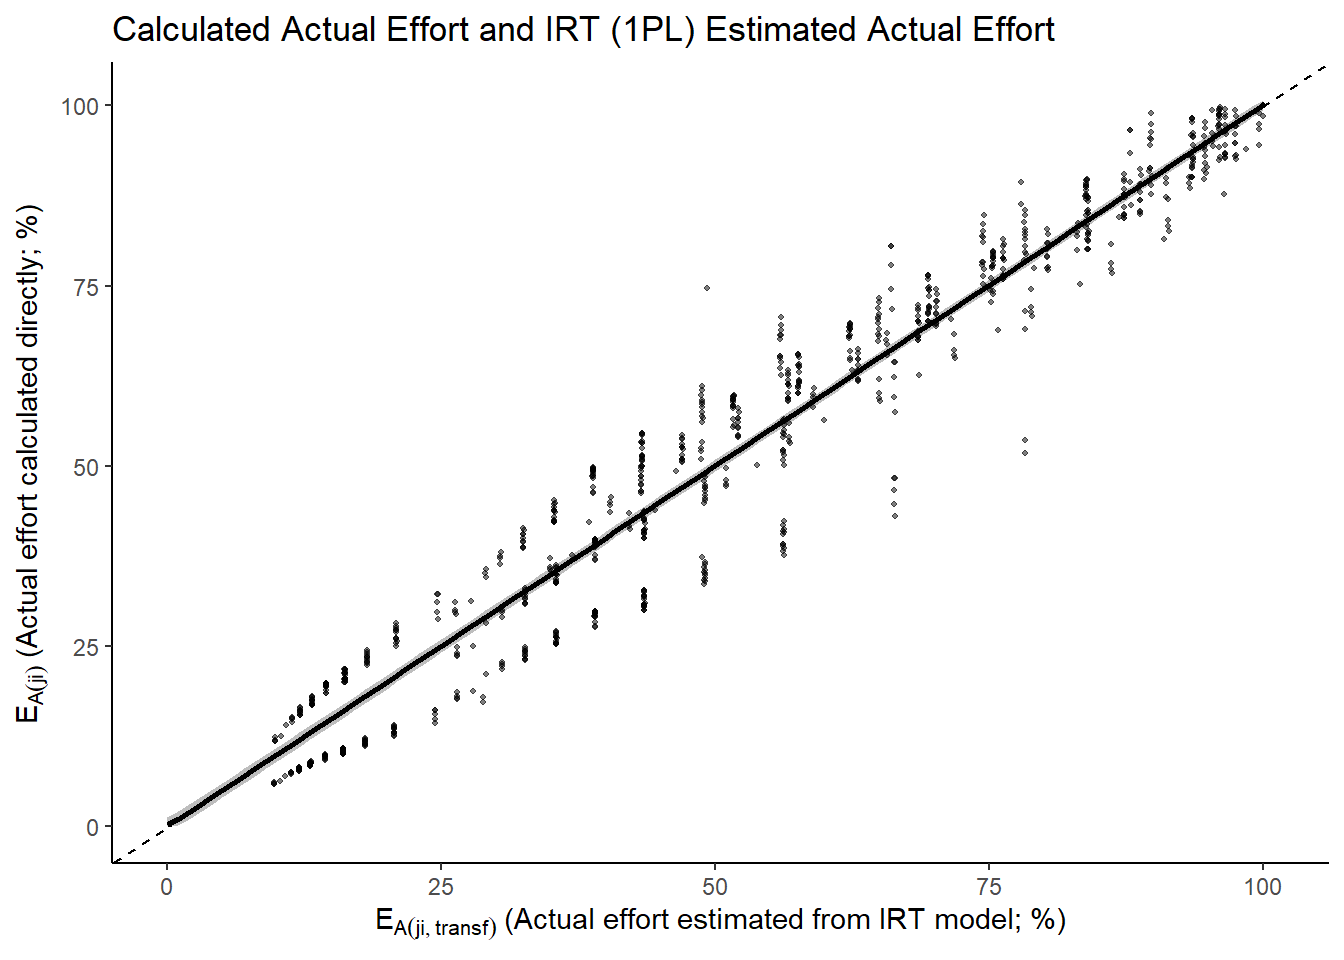
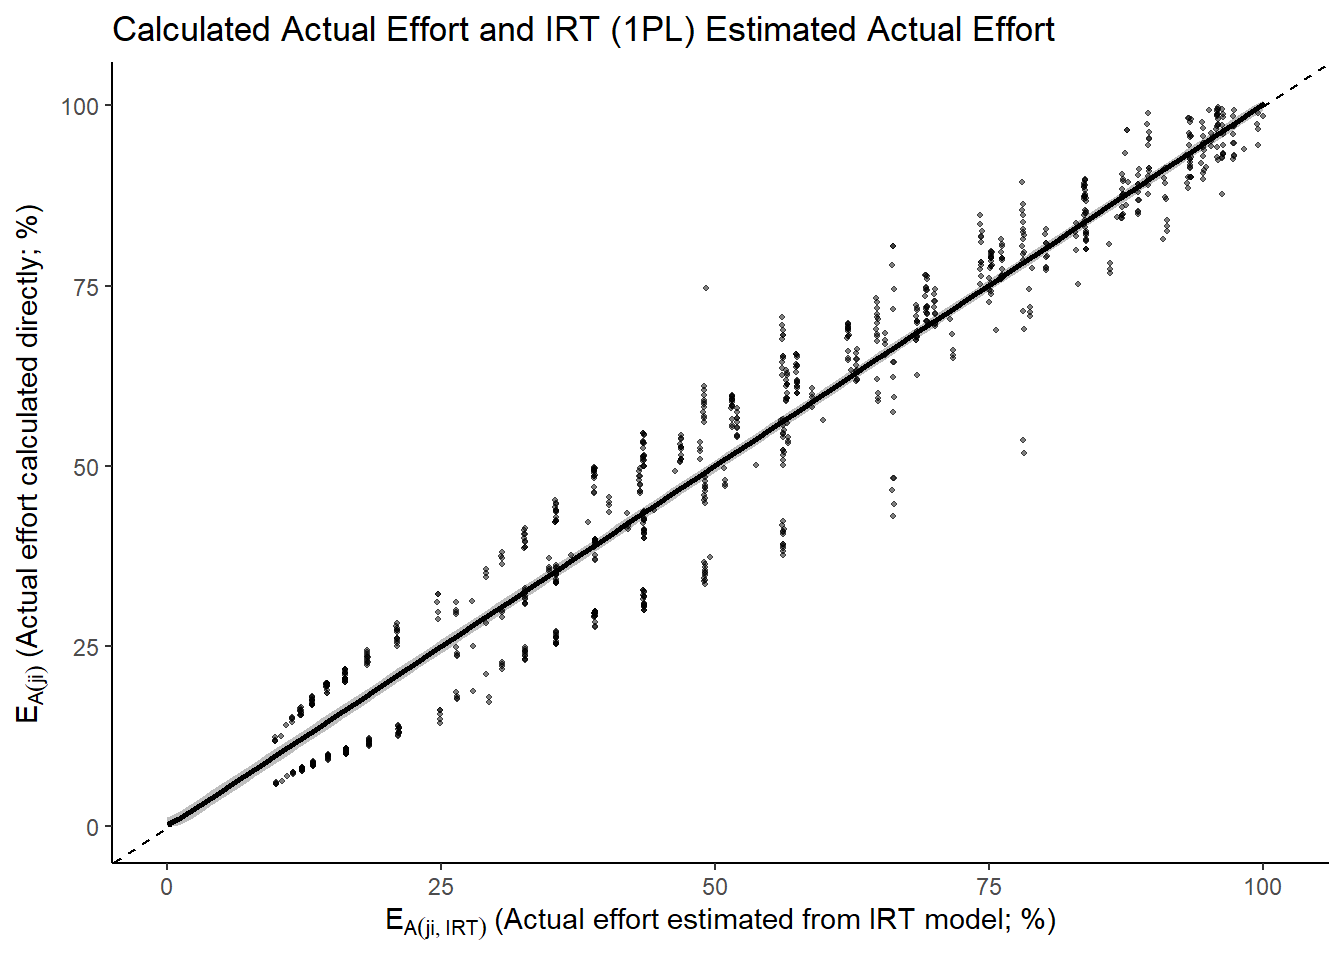
Add link to Solomon Kurz post, correct plot axis label

diff --git a/content/post/IRT_actual_effort/index.html b/content/post/IRT_actual_effort/index.html
@@ -113,7 +113,7 @@ Where the IRT subscript denotes that it is estimated from the IRT model.</p>
 ##  9 p002     91.5 90             98.3        1
 ## 10 p002     91.5 100           100          0</code></pre>
 <p>Now, given the kind of test completed here (i.e., lifting different loads) it is reasonable to use the 1PL model mentioned above because there is no guessing or lapsing, nor do different items differentiate people of different abilities differently (it’s a toy example so we’re building these assumptions in). I’m going to follow an approach using Bayesian mixed effect modelling using weakly regularising priors to fit the initial 1PL model using the {brms} package which I won’t go into detail about here<a href="#fn8" class="footnote-ref" id="fnref8"><sup>8</sup></a>. I’ll use Bayesian models for the following parts also with default priors to keep the approach consistent.</p>
-<p>So we fit the 1PL model and we can plot the ICCs for each load which look like this:</p>
+<p>So we fit the 1PL model and we can plot the ICCs<a href="#fn9" class="footnote-ref" id="fnref9"><sup>9</sup></a> for each load which look like this:</p>
 <p><img src="{{< blogdown/postref >}}index_files/figure-html/unnamed-chunk-5-1.png" width="672" /></p>
 <p>So it’s pretty clear that the model recognises that people are more likely to lift lighter loads than heavier loads, and that people with a greater strength ability are also more likely to lift a given load. We do have some loads though that are just incredibly easy such that pretty much anyone can lift them, and conversely so incredible difficult that no one can lift them.</p>
 <p>After we fit the 1PL model we we can then extract the random effects by person and item, namely <span class="math inline">\(\theta_{j}\)</span> and <span class="math inline">\(\beta_{i}\)</span>. What we want to do is examine their relationship with the ‘measured’ raw 1RM and loads respectively so we can determine the linear transformation needed to convert <span class="math inline">\(\theta_{j}\)</span> and <span class="math inline">\(\beta_{i}\)</span> back to the raw kg units <span class="math inline">\(\theta_{j(transf)}\)</span> and <span class="math inline">\(\beta_{i(transf)}\)</span>.</p>
@@ -128,12 +128,12 @@ Where the IRT subscript denotes that it is estimated from the IRT model.</p>
 ## 
 ## Population-Level Effects: 
 ##           Estimate Est.Error l-95% CI u-95% CI Rhat Bulk_ESS Tail_ESS
-## Intercept   101.56      0.40   100.79   102.32 1.00     3531     2971
-## theta         3.73      0.06     3.61     3.86 1.00     4066     2805
+## Intercept   101.60      0.42   100.78   102.40 1.00     3812     2737
+## theta         3.75      0.06     3.63     3.87 1.00     4386     2333
 ## 
 ## Family Specific Parameters: 
 ##       Estimate Est.Error l-95% CI u-95% CI Rhat Bulk_ESS Tail_ESS
-## sigma     4.06      0.29     3.52     4.66 1.00     3647     2964
+## sigma     4.06      0.30     3.52     4.70 1.00     4550     3241
 ## 
 ## Samples were drawn using sampling(NUTS). For each parameter, Bulk_ESS
 ## and Tail_ESS are effective sample size measures, and Rhat is the potential
@@ -149,12 +149,12 @@ Where the IRT subscript denotes that it is estimated from the IRT model.</p>
 ## 
 ## Population-Level Effects: 
 ##           Estimate Est.Error l-95% CI u-95% CI Rhat Bulk_ESS Tail_ESS
-## Intercept   103.19      1.85    99.57   106.78 1.00     3288     2742
-## beta          3.66      0.12     3.42     3.89 1.00     2921     2320
+## Intercept   103.27      1.84    99.61   106.94 1.00     3572     2898
+## beta          3.67      0.12     3.44     3.89 1.00     3457     2568
 ## 
 ## Family Specific Parameters: 
 ##       Estimate Est.Error l-95% CI u-95% CI Rhat Bulk_ESS Tail_ESS
-## sigma     8.02      1.51     5.73    11.66 1.00     3051     2502
+## sigma     8.04      1.45     5.82    11.40 1.00     3021     2678
 ## 
 ## Samples were drawn using sampling(NUTS). For each parameter, Bulk_ESS
 ## and Tail_ESS are effective sample size measures, and Rhat is the potential
@@ -167,28 +167,28 @@ Where the IRT subscript denotes that it is estimated from the IRT model.</p>
 {\theta_{j(transf)}} \times 100%\]</span></p>
 <p><span class="math display">\[\beta_{i(transf)} &gt; \theta_{j(transf)} \Rightarrow E_{A,(ji,IRT)} = 100%\]</span></p>
 <p>Now we have two sets of actual effort in our dataset; we have the original actual effort calculated directly from the 1RM and loads (<span class="math inline">\(E_{A(ji)}\)</span>) and also and effort calculated from our transformed estimates of ability and difficulty (<span class="math inline">\(E_{A(ji,IRT)}\)</span>).</p>
-<pre><code>##    person   one_RM item actual_effort    theta       beta theta_to_raw
-## 1    p001 103.3932   10      9.671814 1.277936 -24.055144     106.3304
-## 2    p001 103.3932   20     19.343628 1.277936 -24.013713     106.3304
-## 3    p001 103.3932   30     29.015442 1.277936 -16.883841     106.3304
-## 4    p001 103.3932   40     38.687256 1.277936 -16.881152     106.3304
-## 5    p001 103.3932   50     48.359070 1.277936 -16.938071     106.3304
-## 6    p001 103.3932   60     58.030884 1.277936 -13.208960     106.3304
-## 7    p001 103.3932   70     67.702698 1.277936 -10.119876     106.3304
-## 8    p001 103.3932   80     77.374512 1.277936  -6.320877     106.3304
-## 9    p001 103.3932   90     87.046326 1.277936  -3.838160     106.3304
-## 10   p001 103.3932  100     96.718140 1.277936  -0.311394     106.3304
+<pre><code>##    person   one_RM item actual_effort    theta        beta theta_to_raw
+## 1    p001 103.3932   10      9.671814 1.269975 -23.9282114     106.3571
+## 2    p001 103.3932   20     19.343628 1.269975 -23.9616414     106.3571
+## 3    p001 103.3932   30     29.015442 1.269975 -16.8666506     106.3571
+## 4    p001 103.3932   40     38.687256 1.269975 -16.8651184     106.3571
+## 5    p001 103.3932   50     48.359070 1.269975 -16.8753233     106.3571
+## 6    p001 103.3932   60     58.030884 1.269975 -13.2351487     106.3571
+## 7    p001 103.3932   70     67.702698 1.269975 -10.1587614     106.3571
+## 8    p001 103.3932   80     77.374512 1.269975  -6.3751581     106.3571
+## 9    p001 103.3932   90     87.046326 1.269975  -3.9015377     106.3571
+## 10   p001 103.3932  100     96.718140 1.269975  -0.3858035     106.3571
 ##    beta_to_raw irt_effort
-## 1     15.25604   14.34777
-## 2     15.40748   14.49020
-## 3     41.46978   39.00087
-## 4     41.47960   39.01011
-## 5     41.27154   38.81443
-## 6     54.90281   51.63416
-## 7     66.19455   62.25364
-## 8     80.08128   75.31363
-## 9     89.15652   83.84857
-## 10   102.04814   95.97268</code></pre>
+## 1     15.55210   14.62253
+## 2     15.42955   14.50730
+## 3     41.44021   38.96328
+## 4     41.44582   38.96856
+## 5     41.40841   38.93338
+## 6     54.75351   51.48083
+## 7     66.03173   62.08493
+## 8     79.90265   75.12677
+## 9     88.97109   83.65318
+## 10   101.85998   95.77168</code></pre>
 <p>Now, because we have multiple observations for each individuals we can fit a mixed effects model with random intercepts and slopes to explore how well the <span class="math inline">\(E_{A(ji,IRT)}\)</span> estimates <span class="math inline">\(E_{A(ji)}\)</span>.</p>
 <p><img src="{{< blogdown/postref >}}index_files/figure-html/unnamed-chunk-12-1.png" width="672" /></p>
 <p>This doesn’t look too bad to be fair. In fact, it’s pretty darn good in my opinion. The overall fixed effect estimate is almost perfectly on the identity which would leave me feeling fairly confident in using <span class="math inline">\(E_{A(ji,IRT)}\)</span> as my operatational estimate <span class="math inline">\(E_{A(ji)}\)</span>.</p>
@@ -204,11 +204,12 @@ Where the IRT subscript denotes that it is estimated from the IRT model.</p>
 <ol>
 <li id="fn1"><p>Markus, K. A. (2008). Constructs, concepts and the worlds of possibility: Connecting the measurement, manipulation, and meaning of variables. Measurement: Interdisciplinary Research and Perspectives, 6(1-2), 54–77. <a href="https://doi.org/10.1080/15366360802035513" class="uri">https://doi.org/10.1080/15366360802035513</a><a href="#fnref1" class="footnote-back">↩</a></p></li>
 <li id="fn2"><p>I’ll use<span class="math inline">\(j\)</span> here to denote the individual instead of<span class="math inline">\(i\)</span> as I do in the original paper, to be in keeping with the typical notation used in Item Response Theory models that follows because <span class="math inline">\(i\)</span> is used for the ‘item’.<a href="#fnref2" class="footnote-back">↩</a></p></li>
-<li id="fn3"><p>To be fair, the <a href="https://en.wikipedia.org/wiki/Item_response_theory">Wikipedia page</a> on IRT provides a pretty good overview as expected. But I do like Fundamentals of Item Response Theory by R. K. Hambleton, H. Swaminathan, and H. J. Rogers as a strong intro text that’s pretty short (only ~150 pages exlcuding appendices etc.)<a href="#fnref3" class="footnote-back">↩</a></p></li>
+<li id="fn3"><p>To be fair, the <a href="https://en.wikipedia.org/wiki/Item_response_theory">Wikipedia page</a> on IRT provides a pretty good overview as expected. But I do like Fundamentals of Item Response Theory by R. K. Hambleton, H. Swaminathan, and H. J. Rogers as a strong intro text that’s pretty short (only ~150 pages excluding appendices etc.)<a href="#fnref3" class="footnote-back">↩</a></p></li>
 <li id="fn4"><p>Note, for my purposes here I am going with the ‘difficulty’, but if we wanted ‘easiness’ we would use <span class="math inline">\(\alpha_{i}\theta_{j}+\beta_{i}\)</span>.<a href="#fnref4" class="footnote-back">↩</a></p></li>
 <li id="fn5"><p>For those unfamiliar, in practice this is normally achieved within 3-5 attempts so as to not allow cumulative fatigue to unduly influence the estimate of maximum strength.<a href="#fnref5" class="footnote-back">↩</a></p></li>
 <li id="fn6"><p>I used Lisa DeBruine’s great package {faux} for this, which I tend to use for a lot of simulation as it’s so intuitive. Check it out <a href="https://debruine.github.io/faux/">here</a>.<a href="#fnref6" class="footnote-back">↩</a></p></li>
 <li id="fn7"><p>I’ve deliberately chose someone with a 1RM &lt; 100 kg so it’s clear that the response is dependent on the relationship between that and the load lifted.<a href="#fnref7" class="footnote-back">↩</a></p></li>
 <li id="fn8"><p>But, take a look at at the great papers by by Paul Bürkner <a href="https://arxiv.org/abs/1905.09501">here</a> and <a href="https://www.mdpi.com/2079-3200/8/1/5/htm">here</a> who authored the {brms} package - see <a href="https://www.jstatsoft.org/article/view/v080i01">here</a>.<a href="#fnref8" class="footnote-back">↩</a></p></li>
+<li id="fn9"><p>Credit to Solomon Kurz for his great <a href="https://solomonkurz.netlify.app/post/2021-06-29-make-icc-plots-for-your-brms-irt-models/">post</a> on wrangling {brms} models to create these ICC plots.<a href="#fnref9" class="footnote-back">↩</a></p></li>
 </ol>
 </div>
